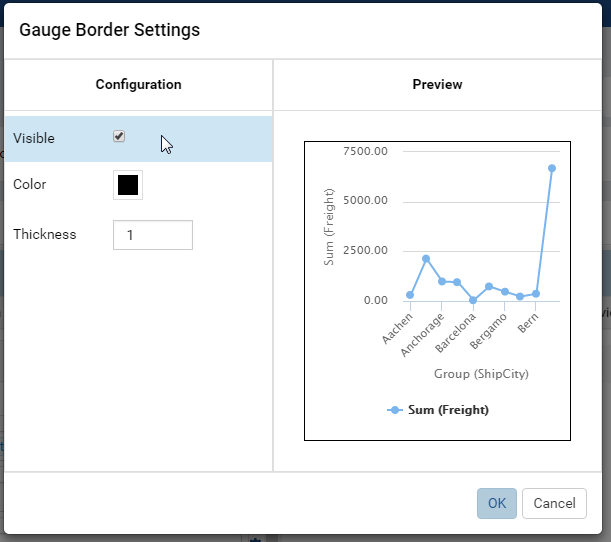
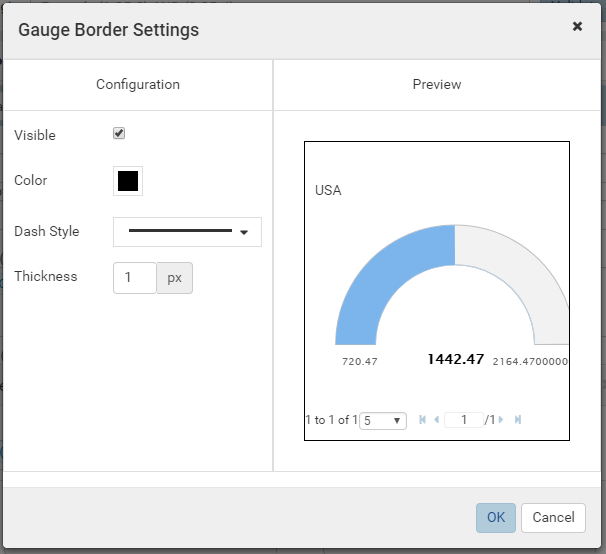
Update hide Preview section in Gauge - Border Settings

diff --git a/ui/doc_report_designer_gauge.rst b/ui/doc_report_designer_gauge.rst
@@ -54,6 +54,17 @@ Preview pane:
    #. Select the border thickness (in pixels).
    #. Click OK to close the Border Settings pop-up. |br|
 
+   .. note::
+
+      The Preview section will not be shown if the **Show Preview section in Configuration Mode** checkbox is ticked in Others tab in Advanced Settings.
+
+         .. figure:: /_static/images/Gauge_Border_Settings_No_Preview.png
+            :width: 458px
+
+         Report Designer - Gauge Border Settings without Preview section
+
+      Please see :ref:`Advanced_Settings_Others` for more details.
+
 -  Customize the relative distance between the tick marks (in Intervals
    box for Linear Gauge only).
 -  Select to use Separator. (See `Define
